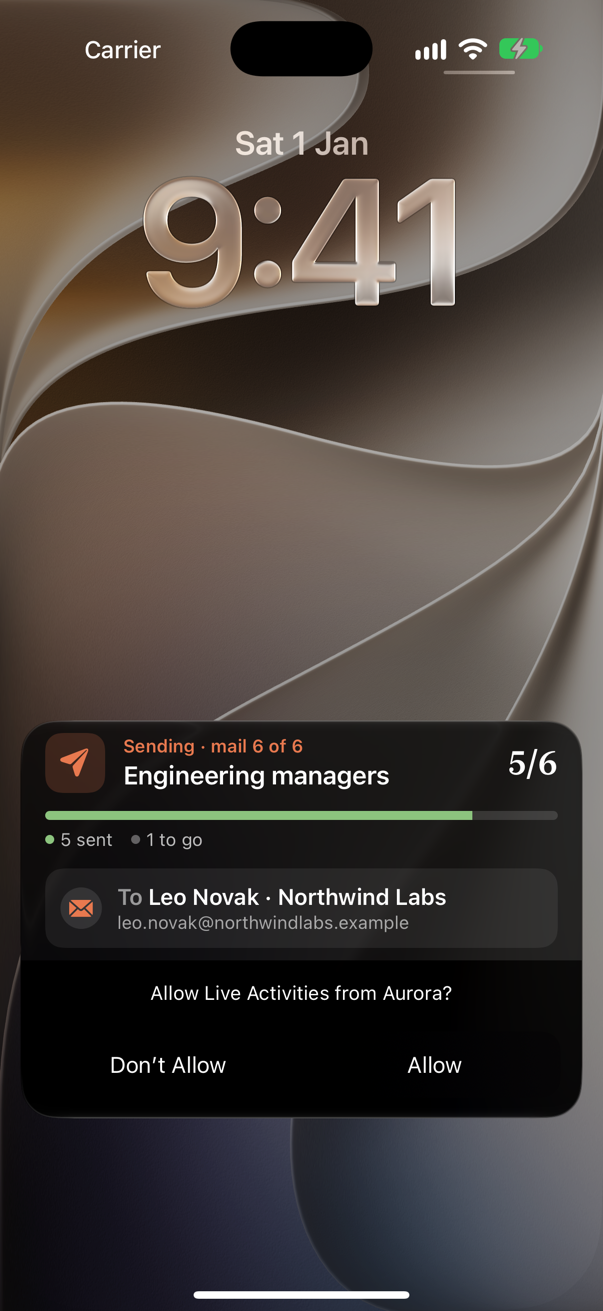
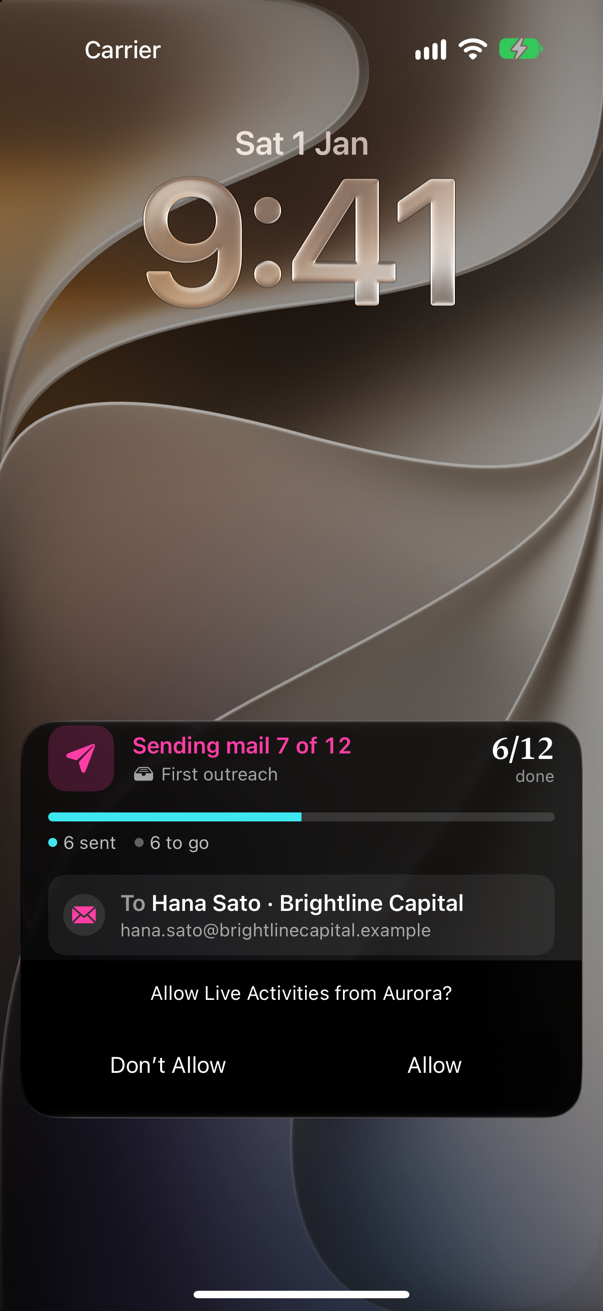
Update the Live Activity screenshots, and inset the island's corners
New Lock Screen, expanded and compact Dynamic Island shots of the
redesigned Live Activity, and one of a scheduled batch ready to send in
the Scheduling section. Taken on the simulator with a fake sender and
made-up recipients at .example addresses.

Taking them showed the expanded island's rounded corners clipping the
glyph tile and the ends of the progress bar; both are inset clear now.

Changed region(s): [[0.0597, 0.5492, 0.806, 0.7323], [0.3881, 0.0, 0.6269, 0.061], [0.806, 0.5492, 0.9254, 0.6102]]

diff --git a/AuroraLive/SendLiveActivityWidget.swift b/AuroraLive/SendLiveActivityWidget.swift
@@ -22,14 +22,16 @@ struct SendLiveActivityWidget: Widget {
             let ready = Phrase.isReady(state, isStale: context.isStale)
             return DynamicIsland {
                 DynamicIslandExpandedRegion(.leading) {
-                    Tile(phase: state.phase, style: style, size: 40)
-                        .padding(.leading, 4)
-                        .padding(.top, 4)
+                    // Inset from the island's rounded corner, which would
+                    // otherwise clip the tile's.
+                    Tile(phase: state.phase, style: style, size: 38)
+                        .padding(.leading, 10)
+                        .padding(.top, 8)
                 }
                 DynamicIslandExpandedRegion(.trailing) {
                     Tally(state: state, isStale: context.isStale)
-                        .padding(.trailing, 4)
-                        .padding(.top, 4)
+                        .padding(.trailing, 10)
+                        .padding(.top, 8)
                 }
                 DynamicIslandExpandedRegion(.center) {
                     // What's happening, then which batch — each on its own line,
@@ -60,8 +62,10 @@ struct SendLiveActivityWidget: Widget {
                         }
                     }
                     .padding(.top, 8)
-                    .padding(.horizontal, 6)
-                    .padding(.bottom, 6)
+                    // Clear of the island's bottom corners, which clip the
+                    // bar's ends otherwise.
+                    .padding(.horizontal, 12)
+                    .padding(.bottom, 12)
                 }
             } compactLeading: {
                 Glyph(phase: state.phase, style: style, size: 13)

diff --git a/README.md b/README.md
@@ -258,6 +258,10 @@ When the time comes the activity turns into "Ready to send" with a **Send
 Now** button by itself, even with the app asleep, and tapping it opens the app
 and starts the batch with no further question.
 
+<p align="center">
+  <img src="docs/screenshots/live-activity-scheduled.png" alt="A scheduled batch on the Lock Screen, ready to send" width="420">
+</p>
+
 If you don't open the app or tap it, the batch waits. iOS doesn't let an app's
 code run at a set time, and a Live Activity can't send mail on its own, so
 sending at an exact time with the phone locked would need a server holding your
